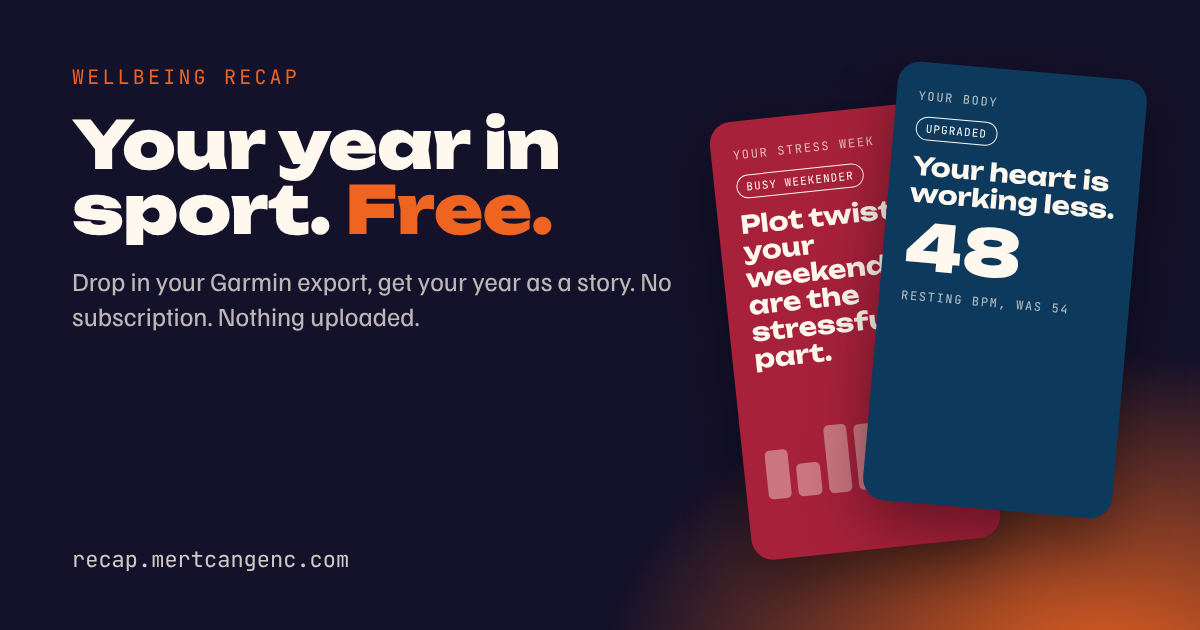
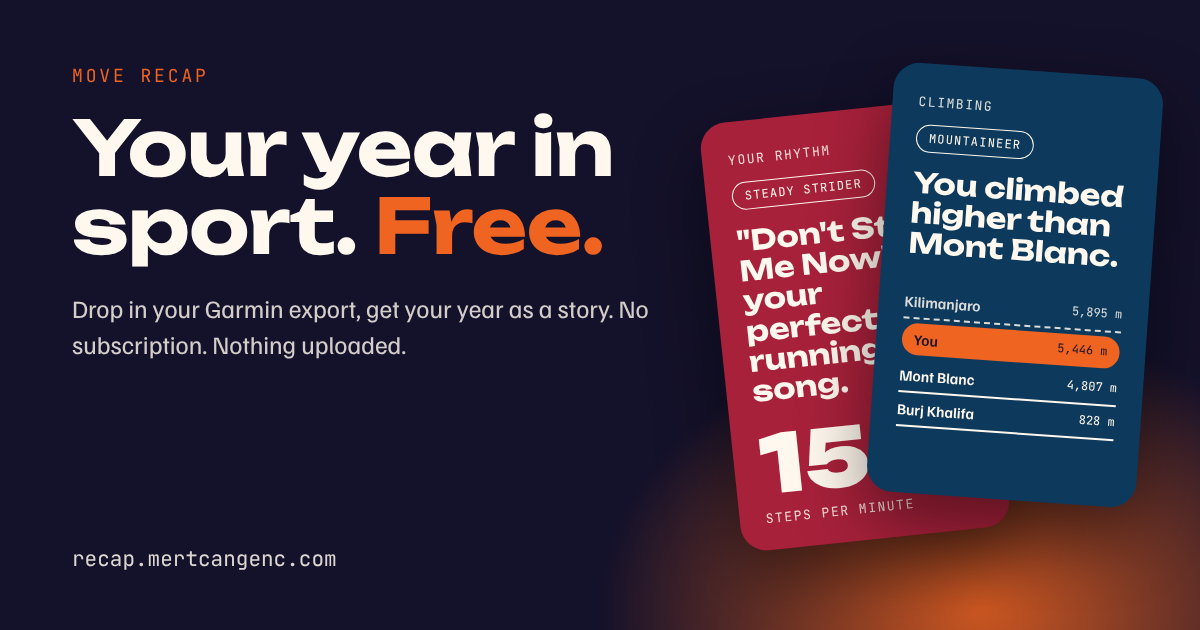
Rename to Move Recap and add the GitHub Sponsors link (#17)
- Brand: Wellbeing Recap → Move Recap everywhere (site, share images and caption #MoveRecap,
  manifest and home-screen name, calendar reminder, privacy page, README, package name).
- New link-preview image (og.png) with the new name and the newer cards.
- Links point at github.com/lukecan/move-recap (GitHub redirects the old name once the repo is renamed).
- "Buy me a coffee" → github.com/sponsors/lukecan on the summary card, the landing footer and the
  privacy page; .github/FUNDING.yml shows the Sponsor button on the repo. Plain links, no widget.

Claude-Session: https://claude.ai/code/session_01VKUhK88fAsRAW2ALzoeMxo

diff --git a/app/app.js b/app/app.js
@@ -57,9 +57,9 @@ const T = {
     errNoData: "No activities or daily summaries found. Is this a Garmin Connect data export?",
     errEmptyCsv: "No activities found in this CSV.",
     statusUnits: "One question before your quick recap: which units does your Garmin use?",
-    calTitle: "Garmin export ready? Open your Wellbeing Recap",
+    calTitle: "Garmin export ready? Open your Move Recap",
     calBody: "Check your email for Garmin's download link, then drop the ZIP at https://recap.mertcangenc.com",
-    calFile: "wellbeing-recap-reminder.ics",
+    calFile: "move-recap-reminder.ics",
   },
   tr: {
     h1: "Sporla geçen yılın. <em>Ücretsiz.</em> Abonelik yok.",
@@ -74,9 +74,9 @@ const T = {
     pv3: '<i>Tırmanış</i><b class="pv-big">14 km</b><b>uçaktan daha yükseğe</b>',
     remindText: "Talep ettin mi? 2 gün sonrası için hatırlatıcı ekle:", remindGoogle: "Google Takvim", remindApple: "Apple Takvim",
     statusUnits: "Hızlı özetinden önce tek bir soru: Garmin'in hangi birimleri kullanıyor?",
-    calTitle: "Garmin export'un hazır mı? Wellbeing Recap'ini aç",
+    calTitle: "Garmin export'un hazır mı? Move Recap'ini aç",
     calBody: "Garmin'in indirme bağlantısı için e-postana bak, sonra ZIP'i https://recap.mertcangenc.com adresine bırak.",
-    calFile: "wellbeing-recap-hatirlatici.ics",
+    calFile: "move-recap-hatirlatici.ics",
     pill: "Tarayıcında çalışır · hiçbir verin internete yüklenmez",
     dropTitle: "Garmin export ZIP'ini ya da aktivite CSV'ni buraya bırak",
     dropSub: "ya da dosyayı seçmek için dokun",
@@ -92,7 +92,7 @@ const T = {
     f1t: "Verin sende kalır", f1: "Dosya bu sayfanın içinde okunur. Sunucu yok, hesap yok, çerez yok.",
     f2t: "Sadece gerekenler", f2: "Yalnızca aktivite özetlerini, günlük istatistikleri, uykuyu ve fitness yaşını okur.",
     f3t: "İlk gününden itibaren", f3: "Saatini bu yıl mı aldın? Özetin aldığın günden başlar. Değilse bütün takvim yılını kapsar.",
-    legal: 'Garmin Connect veri export\'larıyla çalışır. Garmin ile bağlantılı değildir ve Garmin tarafından desteklenmez. Yorumlar eğlence ve motivasyon içindir, tıbbi tavsiye değildir. <a href="privacy.html">Gizlilik</a> · <a href="https://github.com/lukecan/wellbeing_recap" rel="noopener">Açık kaynak (MIT)</a> · <a href="https://github.com/lukecan/wellbeing_recap/issues/new/choose" target="_blank" rel="noopener">Geri bildirim ve hatalar</a>',
+    legal: 'Garmin Connect veri export\'larıyla çalışır. Garmin ile bağlantılı değildir ve Garmin tarafından desteklenmez. Yorumlar eğlence ve motivasyon içindir, tıbbi tavsiye değildir. <a href="privacy.html">Gizlilik</a> · <a href="https://github.com/lukecan/move-recap" rel="noopener">Açık kaynak (MIT)</a> · <a href="https://github.com/lukecan/move-recap/issues/new/choose" target="_blank" rel="noopener">Geri bildirim ve hatalar</a> · <a href="https://github.com/sponsors/lukecan" target="_blank" rel="noopener">Bir kahve ısmarla ☕</a>',
     statusOpening: "Dosyan açılıyor…", statusReading: (i, n, f) => `Okunuyor (${i}/${n}): ${f}`, statusFailed: "Dosya okunurken bir sorun çıktı.",
     errNotZip: "Lütfen Garmin'in e-postasındaki .zip dosyasını (açmadan) ya da aktivite listesinin .csv dosyasını seç.",
     errNotExport: "Bu ZIP bir Garmin Connect export'una benzemiyor. “Request Data Export” sonrası Garmin'in e-postayla gönderdiği dosyayı kullan.",
@@ -233,7 +233,7 @@ function setCalendarLink() {
 }
 $("#ical").addEventListener("click", () => {
   const r = reminderTimes(), esc = s => s.replace(/[\\;,]/g, m => "\\" + m);
-  const ics = ["BEGIN:VCALENDAR", "VERSION:2.0", "PRODID:-//Wellbeing Recap//EN", "CALSCALE:GREGORIAN", "METHOD:PUBLISH",
+  const ics = ["BEGIN:VCALENDAR", "VERSION:2.0", "PRODID:-//Move Recap//EN", "CALSCALE:GREGORIAN", "METHOD:PUBLISH",
     "BEGIN:VEVENT", `UID:${Date.now()}@recap.mertcangenc.com`, `DTSTAMP:${new Date().toISOString().replace(/[-:]/g, "").replace(/\.\d{3}/, "")}`,
     `DTSTART:${r.s}`, `DTEND:${r.e}`, `SUMMARY:${esc(t("calTitle"))}`, `DESCRIPTION:${esc(t("calBody"))}`, "URL:https://recap.mertcangenc.com",
     "BEGIN:VALARM", "ACTION:DISPLAY", `DESCRIPTION:${esc(t("calTitle"))}`, "TRIGGER:PT0M", "END:VALARM",
@@ -313,7 +313,7 @@ function moreCard(s) {
 function summaryText(s, shown) {
   const t = s.totals, fams = Object.entries(t.families).sort((a, b) => b[1].km - a[1].km);
   const personas = identity(shown).map(c => c.persona);
-  return [`Wellbeing Recap · ${periodLabel(s.period)}${s.name ? " · " + s.name : ""}`, L(`${num(t.activities)} activities · ${num(t.activeDays)} active days`, `${num(t.activities)} aktivite · ${num(t.activeDays)} aktif gün`),
+  return [`Move Recap · ${periodLabel(s.period)}${s.name ? " · " + s.name : ""}`, L(`${num(t.activities)} activities · ${num(t.activeDays)} active days`, `${num(t.activities)} aktivite · ${num(t.activeDays)} aktif gün`),
     fams.filter(([, v]) => v.km >= 1).slice(0, 2).map(([f, v]) => `${dist(v.km, s.units)} ${fam(f)}`).join(" · "),
     personas.length ? `${L("My types", "Tiplerim")}: ${personas.join(" · ")}` : ""].filter(Boolean).join("\n");
 }
@@ -325,7 +325,8 @@ function endCard(s, shown, extraCount = 0) {
     <div class="summary">${tiles.map(([v, k]) => `<div><b>${esc(v)}</b><span>${esc(k)}</span></div>`).join("")}</div>
     <button class="share" id="shareAll" type="button">${L("Share my recap ↗", "Özetimi paylaş ↗")}</button>
     ${extraCount ? `<button class="more-cards" id="moreCards" type="button">${L(`${extraCount} more ${extraCount === 1 ? "card" : "cards"} →`, `${extraCount} kart daha →`)}</button>` : ""}
-    <a class="fb" href="https://github.com/lukecan/wellbeing_recap/issues/new/choose" target="_blank" rel="noopener">${L("Tell us what you think →", "Ne düşündüğünü bize yaz →")}</a>
+    <a class="fb" href="https://github.com/lukecan/move-recap/issues/new/choose" target="_blank" rel="noopener">${L("Tell us what you think →", "Ne düşündüğünü bize yaz →")}</a>
+    <a class="fb" href="https://github.com/sponsors/lukecan" target="_blank" rel="noopener">${L("Enjoyed it? Buy me a coffee ☕", "Beğendin mi? Bana bir kahve ısmarla ☕")}</a>
     <div class="foot">${L("Your data never left this page", "Verilerin bu sayfadan hiç çıkmadı")}</div>`];
 }
 
@@ -347,7 +348,7 @@ function shareSpecs(s, shown, extra = []) {
       : c.ladder ? { type: "ladder", ...c.ladder } : c.rows ? { type: "rows", rows: c.rows }
       : c.tiles ? { type: "tiles", tiles: c.tiles } : null });
   const label = periodLabel(s.period);
-  const end = { ...base, id: "end", eyebrow: s.name ? `${s.name} · Wellbeing Recap` : "Wellbeing Recap",
+  const end = { ...base, id: "end", eyebrow: s.name ? `${s.name} · Move Recap` : "Move Recap",
     headline: L(`${s.name ? s.name + "'s" : "My"} ${s.period.mode === "year" ? label : "recap"}`, s.period.mode === "year" ? label : `${s.name ? s.name + ", " : ""}${lower(label)}`),
     cta: [L("Want yours?", "Sen de ister misin?"), L("free", "ücretsiz")], viz: { type: "tiles", tiles: plainTiles(s, shown) } };
   return [intro, totals, ...shown.map(insight), ...(s.source === "csv" ? [null] : []), end, ...extra.map(insight)];
@@ -409,8 +410,8 @@ function togglePause(force) { const want = force ?? !paused; if (want === paused
 const sheetState = { personal: "out", scope: "card", theme: (() => { try { return localStorage.getItem("wr-theme") || "antalya"; } catch { return "antalya"; } })(), format: "story" };
 let prepared = { key: "", files: [] }, previewUrl = "", galleryUrls = [], wasPaused = false, lastFocus = null, prepToken = 0;
 function clearGallery() { galleryUrls.forEach(u => URL.revokeObjectURL(u)); galleryUrls = []; $("#sheetGallery").replaceChildren(); }
-const caption = () => `${summary}\n\n${L("Made free at recap.mertcangenc.com", "recap.mertcangenc.com'da ücretsiz hazırlandı")} #WellbeingRecap`;
-const fileName = (sp, i) => `wellbeing-recap-${String(i + 1).padStart(2, "0")}-${sp.id}-${sheetState.theme}-${sheetState.format}.png`;
+const caption = () => `${summary}\n\n${L("Made free at recap.mertcangenc.com", "recap.mertcangenc.com'da ücretsiz hazırlandı")} #MoveRecap`;
+const fileName = (sp, i) => `move-recap-${String(i + 1).padStart(2, "0")}-${sp.id}-${sheetState.theme}-${sheetState.format}.png`;
 function syncChips() {
   document.querySelectorAll("#sheet .chips").forEach(g => g.querySelectorAll("button").forEach(b => b.setAttribute("aria-pressed", b.dataset.v === sheetState[g.dataset.opt])));
   const canShareFiles = !!(navigator.canShare && navigator.share);

diff --git a/app/index.html b/app/index.html
@@ -4,7 +4,7 @@
 <meta charset="utf-8">
 <meta http-equiv="Content-Security-Policy" content="default-src 'none'; manifest-src 'self'; script-src 'self'; style-src 'self' 'unsafe-inline'; font-src 'self'; img-src 'self' data: blob: https://wellbeing-recap.goatcounter.com; connect-src 'none'; form-action 'none'; base-uri 'none'; object-src 'none'">
 <meta name="viewport" content="width=device-width, initial-scale=1, viewport-fit=cover">
-<title>Wellbeing Recap</title>
+<title>Move Recap</title>
 <link rel="stylesheet" href="fonts/fonts.css">
 <style>
 /* Layout: a single landing column (pitch → drop zone → how-to) that hands over to a full-screen story deck */
@@ -218,7 +218,7 @@ svg text { font-family: var(--f-data); font-size: 10px; fill: var(--dim); }
 </head>
 <body>
 <main class="landing" id="landing">
-  <div class="topbar"><span class="brand" lang="en">Wellbeing Recap</span>
+  <div class="topbar"><span class="brand" lang="en">Move Recap</span>
     <div class="lang" role="group" aria-label="Language"><button type="button" data-lang="en">EN</button><button type="button" data-lang="tr">TR</button></div></div>
   <div class="hero-row">
   <section class="pitch">
@@ -279,7 +279,7 @@ svg text { font-family: var(--f-data); font-size: 10px; fill: var(--dim); }
     <div><b data-i18n="f3t">Since your first day</b><span data-i18n="f3">New watch this year? Your recap starts the day you got it. Otherwise it covers the calendar year.</span></div>
   </section>
 
-  <p class="legal" data-i18n="legal">Works with Garmin Connect data exports. Not affiliated with or endorsed by Garmin. Insights are for fun and motivation, not medical advice. <a href="privacy.html">Privacy</a> · <a href="https://github.com/lukecan/wellbeing_recap" rel="noopener">Open source (MIT)</a> · <a href="https://github.com/lukecan/wellbeing_recap/issues/new/choose" target="_blank" rel="noopener">Feedback &amp; bugs</a></p>
+  <p class="legal" data-i18n="legal">Works with Garmin Connect data exports. Not affiliated with or endorsed by Garmin. Insights are for fun and motivation, not medical advice. <a href="privacy.html">Privacy</a> · <a href="https://github.com/lukecan/move-recap" rel="noopener">Open source (MIT)</a> · <a href="https://github.com/lukecan/move-recap/issues/new/choose" target="_blank" rel="noopener">Feedback &amp; bugs</a> · <a href="https://github.com/sponsors/lukecan" target="_blank" rel="noopener">Buy me a coffee ☕</a></p>
 </main>
 
 <section class="story" id="story" lang="en" hidden aria-roledescription="story" aria-label="Your recap">
@@ -298,7 +298,7 @@ svg text { font-family: var(--f-data); font-size: 10px; fill: var(--dim); }
   </div>
   <div class="stage" id="stage">
     <div class="bars" id="bars"></div>
-    <div class="top"><span id="topLabel">Wellbeing Recap</span><div><button id="pause" type="button" aria-label="Pause">❚❚</button><button id="close" type="button" aria-label="Close recap">✕</button></div></div>
+    <div class="top"><span id="topLabel">Move Recap</span><div><button id="pause" type="button" aria-label="Pause">❚❚</button><button id="close" type="button" aria-label="Close recap">✕</button></div></div>
     <button class="nav prev" id="prev" type="button" aria-label="Previous card"></button>
     <button class="nav next" id="next" type="button" aria-label="Next card"></button>
     <div id="cards"></div>

diff --git a/app/privacy.html b/app/privacy.html
@@ -4,7 +4,7 @@
 <meta charset="utf-8">
 <meta http-equiv="Content-Security-Policy" content="default-src 'none'; script-src 'self'; style-src 'self' 'unsafe-inline'; font-src 'self'; img-src 'self' data: blob:; connect-src 'none'; form-action 'none'; base-uri 'none'; object-src 'none'">
 <meta name="viewport" content="width=device-width, initial-scale=1, viewport-fit=cover">
-<title>Privacy · Wellbeing Recap</title>
+<title>Privacy · Move Recap</title>
 <link rel="stylesheet" href="fonts/fonts.css">
 <style>
 :root {
@@ -36,7 +36,7 @@ main > div[data-block] { display: flex; flex-direction: column; gap: 22px; }
 </head>
 <body>
 <main>
-  <div class="topbar"><a class="brand" lang="en" href="./">← Wellbeing Recap</a><div class="lang" role="group" aria-label="Language"><button type="button" data-lang="en">EN</button><button type="button" data-lang="tr">TR</button></div></div>
+  <div class="topbar"><a class="brand" lang="en" href="./">← Move Recap</a><div class="lang" role="group" aria-label="Language"><button type="button" data-lang="en">EN</button><button type="button" data-lang="tr">TR</button></div></div>
   <div data-block="en">
   <h1>Privacy</h1>
   <p class="tldr"><strong>Short version:</strong> your file is read inside your browser and never sent anywhere. There's no account, no server that sees your data and no cookies. We only count visits, anonymously.</p>
@@ -70,7 +70,7 @@ main > div[data-block] { display: flex; flex-direction: column; gap: 22px; }
   <p>Insights are for fun and motivation. They aren't medical advice. Not affiliated with or endorsed by Garmin.</p>
 
   <h2>Questions</h2>
-  <p>Email <strong>selam@mertcangenc.com</strong>. The code is open: <a href="https://github.com/lukecan/wellbeing_recap" rel="noopener">github.com/lukecan/wellbeing_recap</a>.</p>
+  <p>Email <strong>selam@mertcangenc.com</strong>. If you'd like to support it, you can <a href="https://github.com/sponsors/lukecan" rel="noopener">buy me a coffee on GitHub Sponsors</a>. The code is open: <a href="https://github.com/lukecan/move-recap" rel="noopener">github.com/lukecan/move-recap</a>.</p>
 
   </div>
   <div data-block="tr" hidden>
@@ -106,7 +106,7 @@ main > div[data-block] { display: flex; flex-direction: column; gap: 22px; }
   <p>Yorumlar eğlence ve motivasyon içindir, tıbbi tavsiye yerine geçmez. Garmin ile bağlantılı değildir ve Garmin tarafından desteklenmez.</p>
 
   <h2>Sorular</h2>
-  <p><strong>selam@mertcangenc.com</strong> adresine yazabilirsin. Kodlar açık: <a href="https://github.com/lukecan/wellbeing_recap" rel="noopener">github.com/lukecan/wellbeing_recap</a>.</p>
+  <p><strong>selam@mertcangenc.com</strong> adresine yazabilirsin. Desteklemek istersen <a href="https://github.com/sponsors/lukecan" rel="noopener">GitHub Sponsors'tan bir kahve ısmarlayabilirsin</a>. Kodlar açık: <a href="https://github.com/lukecan/move-recap" rel="noopener">github.com/lukecan/move-recap</a>.</p>
   </div>
   <p class="foot"><span data-block="en">Last updated November 2, 2026 · visit counter added</span><span data-block="tr" hidden>Son güncelleme: 2 Kasım 2026 · ziyaret sayacı eklendi</span></p>
 </main>

diff --git a/src/share.js b/src/share.js
@@ -1,5 +1,5 @@
 /*
- * Wellbeing Recap: share images.
+ * Move Recap: share images.
  *
  * Draws one recap card onto a <canvas> so people can post it. Canvas is used
  * instead of screenshotting the DOM because DOM-to-image tricks break on
@@ -23,8 +23,7 @@
   const SITE = "recap.mertcangenc.com";
   // uppercase in the card's language (Turkish i → İ)
   let UP = "en";
-  // the brand stays English in every language (WELLBEING, not WELLBEİNG)
-  const up = s => String(s).toLocaleUpperCase(UP).replace(/WELLBEİNG/g, "WELLBEING");
+  const up = s => String(s).toLocaleUpperCase(UP);
   const FORMATS = {
     story: { w: 1080, h: 1920, top: 250, bottom: 330, scale: 1 },
     post: { w: 1080, h: 1350, top: 110, bottom: 120, scale: 0.84 },

diff --git a/app/privacy.js b/app/privacy.js
@@ -3,7 +3,7 @@
   try { lang = localStorage.getItem("wr-lang") || (/^tr\b/i.test(navigator.language || "") ? "tr" : "en"); } catch (e) { lang = /^tr\b/i.test(navigator.language || "") ? "tr" : "en"; }
   const apply = () => {
     document.documentElement.lang = lang;
-    document.title = lang === "tr" ? "Gizlilik · Wellbeing Recap" : "Privacy · Wellbeing Recap";
+    document.title = lang === "tr" ? "Gizlilik · Move Recap" : "Privacy · Move Recap";
     document.querySelectorAll("[data-block]").forEach(el => (el.hidden = el.dataset.block !== lang));
     document.querySelectorAll(".lang button").forEach(b => b.setAttribute("aria-pressed", b.dataset.lang === lang));
   };

diff --git a/demo/insights.html b/demo/insights.html
@@ -81,7 +81,7 @@ footer { font-family: var(--f-data); font-size: 11px; color: var(--dim); border-
 <body>
 <div class="wrap">
   <header>
-    <span class="kicker">Wellbeing Recap · insight engine v0.2 · 8 cards</span>
+    <span class="kicker">Move Recap · insight engine v0.2 · 8 cards</span>
     <h1>Same cards, different people, different stories.</h1>
     <p class="lede">Pick a profile. The engine reads its numbers, picks a persona for each card, ranks the cards by how interesting they are and skips the ones without enough data.</p>
   </header>

diff --git a/src/geo.js b/src/geo.js
@@ -1,5 +1,5 @@
 /*
- * Wellbeing Recap: workout start coordinates → city and country, offline.
+ * Move Recap: workout start coordinates → city and country, offline.
  *
  * The city list (GeoNames via all-the-cities, CC BY 4.0) is built into js/cities.js and only loaded
  * when a full export is opened. Nothing is looked up online: coordinates never leave the page.

diff --git a/src/parse-csv.js b/src/parse-csv.js
@@ -1,5 +1,5 @@
 /*
- * Wellbeing Recap: Garmin Connect "Export CSV" (Activities list) → stats.
+ * Move Recap: Garmin Connect "Export CSV" (Activities list) → stats.
  *
  * The quick path. It only knows about activities, so the deck gets the
  * intro, totals, when-you-move and climbing cards; sleep, stress, steps,

diff --git a/src/parse-export.js b/src/parse-export.js
@@ -1,5 +1,5 @@
 /*
- * Wellbeing Recap: Garmin export → stats for the insight engine.
+ * Move Recap: Garmin export → stats for the insight engine.
  *
  * computeStats(files) takes a Map of { path → parsed JSON } holding only the
  * files `isWanted(path)` accepted, and returns the stats object that

diff --git a/src/insights.js b/src/insights.js
@@ -1,5 +1,5 @@
 /*
- * Wellbeing Recap: insight engine.
+ * Move Recap: insight engine.
  *
  * Each card is a pure function: stats in, insight out.
  *   { id, skip, reason?, score, persona, headline, body, facts[], trace[] }

diff --git a/README.md b/README.md
@@ -1,4 +1,4 @@
-# Wellbeing Recap
+# Move Recap
 
 Your year in sport and wellbeing, Wrapped-style: story cards built from your own fitness-watch data.
 
